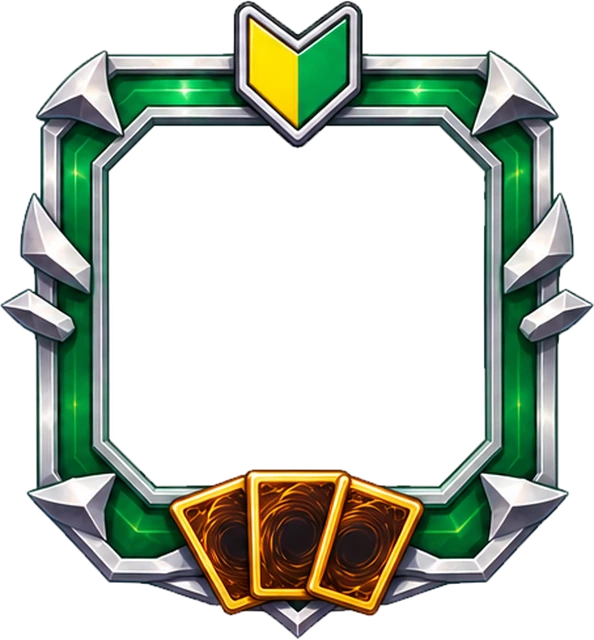
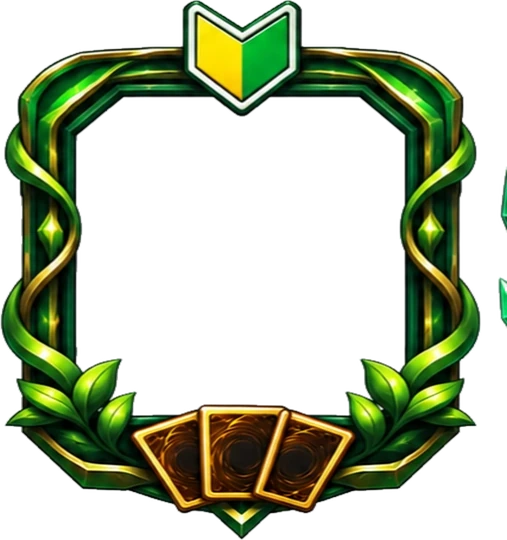
Khung Tập chơi mới, ép chiều dọc cho ô giữa vuông như các khung khác
Claude-Session: https://claude.ai/code/session_01Nx6Ku3aBdYaAg177SRaq3f

diff --git a/src/lib/rank.ts b/src/lib/rank.ts
@@ -33,7 +33,7 @@ const FRAMES = {
   "chuyen-nghiep": { w: 612, h: 640, hole: [115, 139, 497, 493] },
   "hoc-vien": { w: 492, h: 640, hole: [98, 189, 395, 486] },
   "nghiep-du": { w: 640, h: 633, hole: [124, 113, 512, 476] },
-  "tap-choi": { w: 594, h: 640, hole: [110, 127, 484, 486] },
+  "tap-choi": { w: 507, h: 540, hole: [77, 98, 404, 415] },
 } as const;
 
 export function rankFrame(tier: number) {
